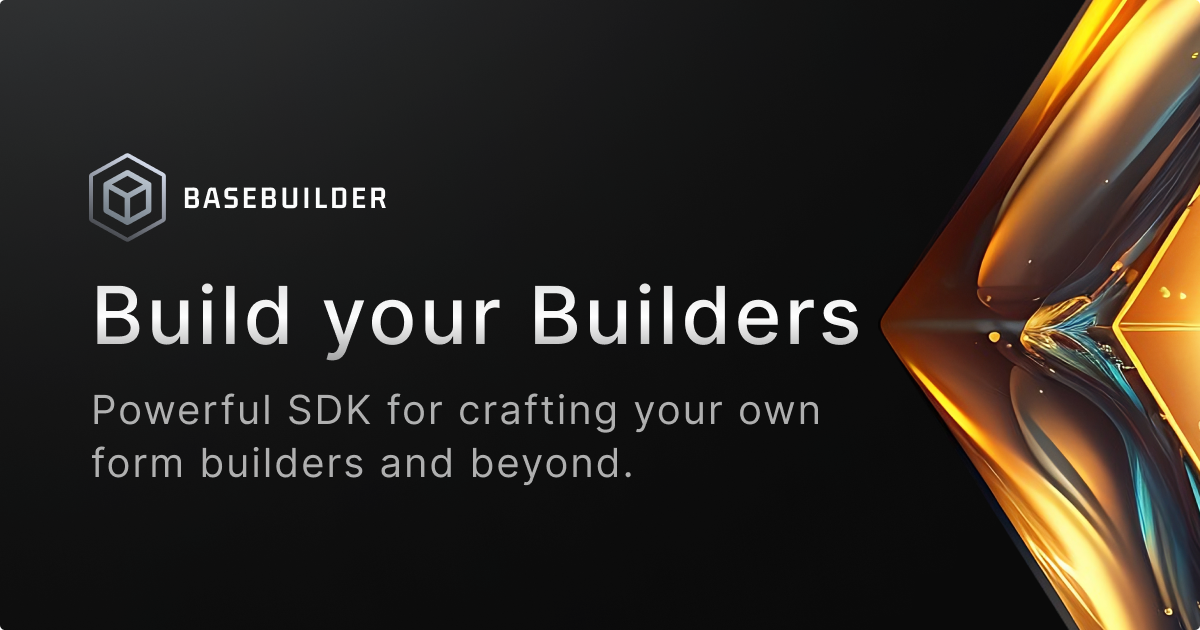
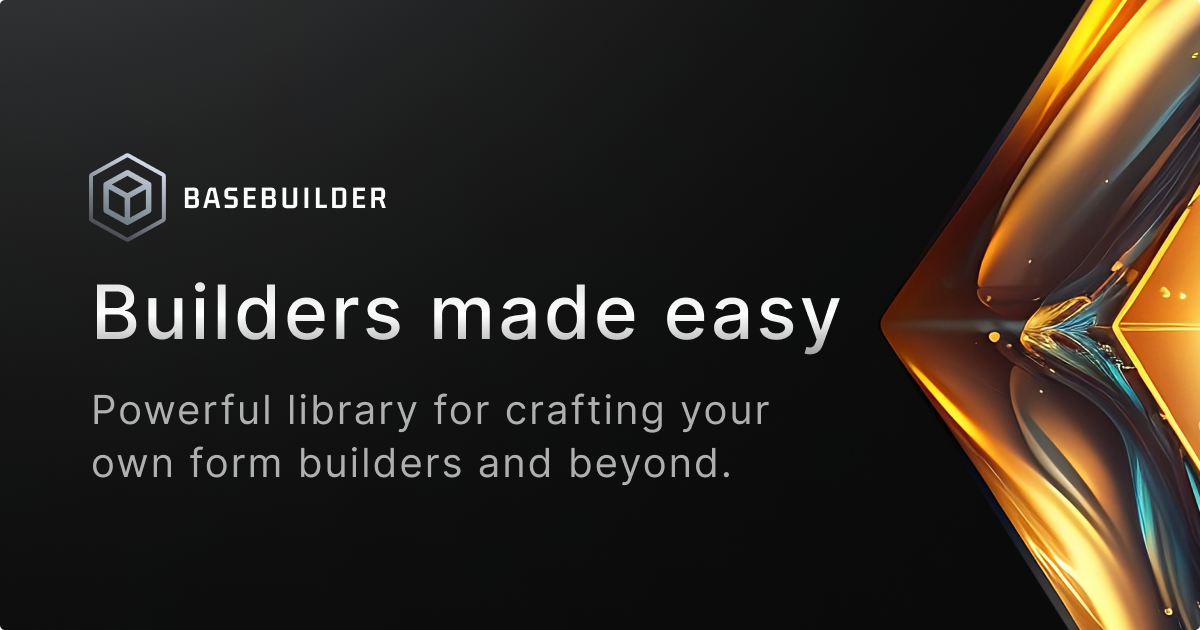
chore: Added video links to readme and docs

Changed region(s): [[0.0617, 0.4524, 0.74, 0.573], [0.0617, 0.6032, 0.6783, 0.7841]]

diff --git a/docs/src/builders/basic-form-builder/builder/preview.tsx b/docs/src/builders/basic-form-builder/builder/preview.tsx
@@ -1,4 +1,5 @@
 import { useRef, useState } from "react";
+import Link from "next/link";
 import { Button } from "@/components/ui/button";
 import { Card, CardContent } from "@/components/ui/card";
 import {
@@ -161,10 +162,32 @@ export function Preview(props: {
 
   return (
     <div>
-      <Button variant="secondary" size="sm" onClick={() => void openPreview()}>
-        <EyeIcon className="mr-2 h-4 w-4" />
-        Preview Form
-      </Button>
+      <div className="dark:hover:prose-a:text-secondary-foreground dark:prose-a:text-secondary-foreground prose-a:no-underline prose-a:font-medium flex gap-4">
+        <Button variant="secondary" size="sm" asChild>
+          <Link
+            href="https://github.com/coltorapps/builder/tree/main/docs/src/builders/basic-form-builder"
+            target="_blank"
+            className="not-prose"
+          >
+            <svg
+              aria-hidden="true"
+              viewBox="0 0 16 16"
+              className="mr-2 h-4 w-4 fill-current"
+            >
+              <path d="M8 0C3.58 0 0 3.58 0 8C0 11.54 2.29 14.53 5.47 15.59C5.87 15.66 6.02 15.42 6.02 15.21C6.02 15.02 6.01 14.39 6.01 13.72C4 14.09 3.48 13.23 3.32 12.78C3.23 12.55 2.84 11.84 2.5 11.65C2.22 11.5 1.82 11.13 2.49 11.12C3.12 11.11 3.57 11.7 3.72 11.94C4.44 13.15 5.59 12.81 6.05 12.6C6.12 12.08 6.33 11.73 6.56 11.53C4.78 11.33 2.92 10.64 2.92 7.58C2.92 6.71 3.23 5.99 3.74 5.43C3.66 5.23 3.38 4.41 3.82 3.31C3.82 3.31 4.49 3.1 6.02 4.13C6.66 3.95 7.34 3.86 8.02 3.86C8.7 3.86 9.38 3.95 10.02 4.13C11.55 3.09 12.22 3.31 12.22 3.31C12.66 4.41 12.38 5.23 12.3 5.43C12.81 5.99 13.12 6.7 13.12 7.58C13.12 10.65 11.25 11.33 9.47 11.53C9.76 11.78 10.01 12.26 10.01 13.01C10.01 14.08 10 14.94 10 15.21C10 15.42 10.15 15.67 10.55 15.59C13.71 14.53 16 11.53 16 8C16 3.58 12.42 0 8 0Z" />
+            </svg>
+            View on Github
+          </Link>
+        </Button>
+        <Button
+          variant="secondary"
+          size="sm"
+          onClick={() => void openPreview()}
+        >
+          <EyeIcon className="mr-2 h-4 w-4" />
+          Preview Form
+        </Button>
+      </div>
       <Dialog modal open={previewVisible} onOpenChange={setPreviewVisible}>
         <DialogContent className="sm:top-[20%] sm:translate-y-0">
           <DialogHeader>

diff --git a/docs/src/components/Hero.tsx b/docs/src/components/Hero.tsx
@@ -46,7 +46,7 @@ export function Hero() {
             />
             <div className="relative xl:pr-24">
               <p className="font-display inline bg-gradient-to-t from-slate-400 to-white bg-clip-text text-5xl tracking-tight text-transparent">
-                Build your Builders
+                Builders made easy
               </p>
               <p className="mt-3 text-2xl tracking-tight text-neutral-400">
                 Powerful library for crafting your own form builders and beyond.
@@ -57,10 +57,28 @@ export function Hero() {
                 </Button>
                 <Button variant="secondary" asChild>
                   <Link
-                    href="https://github.com/coltorapps/builder/"
+                    href="https://www.youtube.com/watch?v=n6kTcHkjj_8"
                     target="_blank"
                   >
-                    View on GitHub
+                    Watch Intro
+                    <svg
+                      fill="none"
+                      viewBox="0 0 24 24"
+                      strokeWidth={1.5}
+                      stroke="currentColor"
+                      className="h-6 w-6 ml-1"
+                    >
+                      <path
+                        strokeLinecap="round"
+                        strokeLinejoin="round"
+                        d="M21 12a9 9 0 1 1-18 0 9 9 0 0 1 18 0Z"
+                      />
+                      <path
+                        strokeLinecap="round"
+                        strokeLinejoin="round"
+                        d="M15.91 11.672a.375.375 0 0 1 0 .656l-5.603 3.113a.375.375 0 0 1-.557-.328V8.887c0-.286.307-.466.557-.327l5.603 3.112Z"
+                      />
+                    </svg>
                   </Link>
                 </Button>
               </div>

diff --git a/docs/src/components/YoutubeVideo.tsx b/docs/src/components/YoutubeVideo.tsx
@@ -1,0 +1,43 @@
+import Image from "next/image";
+import youtubeThumbnail from "@/images/youtube-thumbnail.png";
+
+export function YoutubeVideo() {
+  return (
+    <div className="group relative">
+      <a href="https://www.youtube.com/watch?v=n6kTcHkjj_8" target="_blank">
+        <Image
+          className="rounded-xl"
+          src={youtubeThumbnail}
+          alt=""
+          unoptimized
+          priority
+          width={0}
+          height={0}
+          sizes="100vw"
+          style={{ width: "100%", height: "auto" }}
+        />
+        <div className="absolute inset-0 z-10 flex h-full w-full items-center justify-center">
+          <svg
+            xmlns="http://www.w3.org/2000/svg"
+            fill="none"
+            viewBox="0 0 24 24"
+            strokeWidth={1.5}
+            stroke="currentColor"
+            className="h-16 w-16 text-white opacity-60 transition-all duration-300 group-hover:scale-110 group-hover:opacity-100"
+          >
+            <path
+              strokeLinecap="round"
+              strokeLinejoin="round"
+              d="M21 12a9 9 0 1 1-18 0 9 9 0 0 1 18 0Z"
+            />
+            <path
+              strokeLinecap="round"
+              strokeLinejoin="round"
+              d="M15.91 11.672a.375.375 0 0 1 0 .656l-5.603 3.113a.375.375 0 0 1-.557-.328V8.887c0-.286.307-.466.557-.327l5.603 3.112Z"
+            />
+          </svg>
+        </div>
+      </a>
+    </div>
+  );
+}

diff --git a/docs/src/markdoc/tags.js b/docs/src/markdoc/tags.js
@@ -1,6 +1,7 @@
 import { BasicFormBuilder } from "@/builders/basic-form-builder";
 import { Callout } from "@/components/Callout";
 import { QuickLink, QuickLinks } from "@/components/QuickLinks";
+import { YoutubeVideo } from "@/components/YoutubeVideo";
 import { cn } from "@/lib/utils";
 
 const tags = {
@@ -30,6 +31,10 @@ const tags = {
         <figcaption>{caption}</figcaption>
       </figure>
     ),
+  },
+  "youtube-video": {
+    render: YoutubeVideo,
+    selfClosing: true,
   },
   "quick-links": {
     render: QuickLinks,

diff --git a/README.md b/README.md
@@ -8,6 +8,8 @@
 <a href="https://github.com/coltorapps/builder">GitHub</a>
 <span> · </span>
 <a href="https://twitter.com/sandulat">Twitter (X)</a>
+<span> · </span>
+<a href="https://www.youtube.com/watch?v=n6kTcHkjj_8">Watch Intro ►</a>
 </div>
 <br />
 <div align="center">
@@ -32,6 +34,16 @@ Some key characteristics:
 
 Currently, **Builder** offers support for React, with plans to extend compatibility to other front-end frameworks in the future.
 
+Click the thumbnail below to watch the library's intro video.
+
+<div>
+<a href="https://www.youtube.com/watch?v=n6kTcHkjj_8">
+<img src="https://raw.githubusercontent.com/coltorapps/builder/main/assets/youtube-thumbnail.png" alt="drawing" width="400"/>
+</a>
+</div>
+
+<br />
+
 > We are successfully using **Builder** in real-world production apps. However, it's important to note that the project is currently in the alpha stage, which means that breaking changes can occur even in minor or patch updates.
 
 ## Install
@@ -49,8 +61,9 @@ pnpm install @coltorapps/builder @coltorapps/builder-react
 Think of attributes as the props of your entities. For instance, a text field may include attributes such as a label, a requirement flag, a maximum length, and others. Attributes are atomic, enabling their reuse across various entities.
 
 ```ts
-import { createAttribute } from "@coltorapps/builder";
 import { z } from "zod";
+
+import { createAttribute } from "@coltorapps/builder";
 
 export const labelAttribute = createAttribute({
   name: "label",
@@ -65,8 +78,9 @@ export const labelAttribute = createAttribute({
 Think of entities with attributes as components with props. For example, you can define a text field entity, and users can later add multiple instances of text fields to a form.
 
 ```ts
-import { createEntity } from "@coltorapps/builder";
 import { z } from "zod";
+
+import { createEntity } from "@coltorapps/builder";
 
 import { labelAttribute } from "./label-attribute";
 
@@ -109,6 +123,12 @@ pnpm install
 
 ```sh
 pnpm dev
+```
+
+#### Run the tests
+
+```sh
+pnpm test
 ```
 
 ## Authors

diff --git a/docs/src/app/docs/guides/form-builder/page.md b/docs/src/app/docs/guides/form-builder/page.md
@@ -29,8 +29,8 @@ pnpm install @coltorapps/builder @coltorapps/builder-react
 1. Create a label attribute definition by using the `createAttribute` method.
 2. Create a text field entity definition by using the `createEntity` method and attach the label attribute to it.
 3. Create a form builder definition by using the `createBuilder` method and attach the text field entity to it.
-4. Create a visual component for the label attribute by using the `createAttributeComponent` method.
-5. Create a visual component for the text field entity by using the `createEntityComponent` method.
+4. Create an editor component for the label attribute by using the `createAttributeComponent` method.
+5. Create a component for the text field entity by using the `createEntityComponent` method.
 6. Instantiate a builder store using the `useBuilderStore` hook. Utilize the `Entities` component to render the entities from the store's schema, and use the `Attributes` component to display the attributes of a selected entity.
 7. Implement a server action for validating incoming form schemas by using the `validateSchema` method and persisting them in the database. Use this server action to submit the form schema from the client.
 8. Retrieve the built form schema and instantiate an interpreter store with the `useInterpreterStore` hook. Utilize the `Interpreter` component to render the entities from the store's schema.
@@ -583,7 +583,7 @@ export const textFieldEntity = createEntity({
 });
 ```
 
-Create the visual component of the attribute.
+Create the editor component of the attribute.
 
 ```tsx
 import { ZodError } from "zod";

diff --git a/docs/src/app/page.md b/docs/src/app/page.md
@@ -16,6 +16,8 @@ Learn how to get started with Builder through our guides. {% .lead %}
 
 {% /quick-links %}
 
+{% youtube-video /%}
+
 ---
 
 ## Live Example
@@ -26,7 +28,7 @@ A simple example of what can be accomplished with Builder.
 
 ---
 
-## Intro
+## Introduction
 
 **Builder** is a versatile TypeScript library designed for crafting custom form builders and much more. You can also develop website builders, dashboard builders, and any other builders you envision.
 

diff --git a/docs/src/app/docs/api/react/create-attribute-component/page.md b/docs/src/app/docs/api/react/create-attribute-component/page.md
@@ -14,7 +14,7 @@ The function is not just a type safety helper compared to [createEntityComponent
 
 ### `createAttributeComponent(attribute, render)`
 
-Use the `createAttributeComponent` function to define the visual component for your entity:
+Use the `createAttributeComponent` function to define the editor component for your attribute:
 
 ```tsx
 import { createAttributeComponent } from "@coltorapps/builder-react";

diff --git a/docs/src/app/docs/api/react/create-entity-component/page.md b/docs/src/app/docs/api/react/create-entity-component/page.md
@@ -14,7 +14,7 @@ The function itself serves primarily as a type safety helper and doesn't perform
 
 ### `createEntityComponent(entity, render)`
 
-Use the `createEntityComponent` function to define the visual component for your entity:
+Use the `createEntityComponent` function to define the component for your entity:
 
 ```tsx
 import { createEntityComponent } from "@coltorapps/builder-react";
